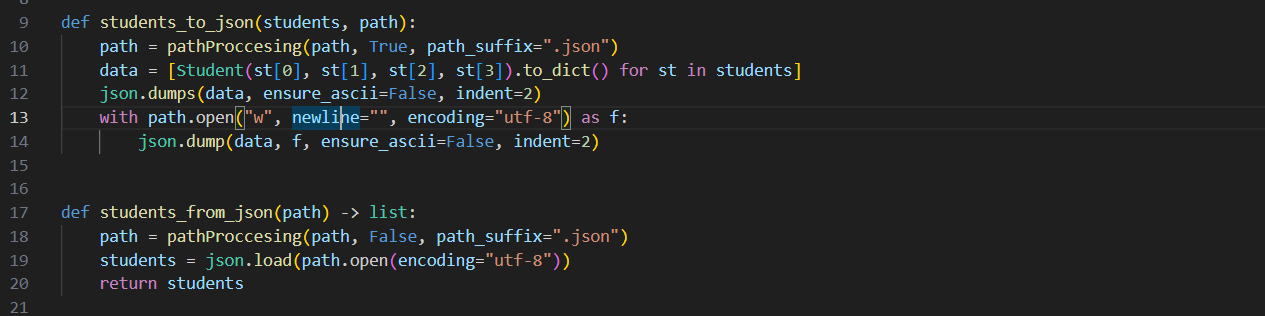
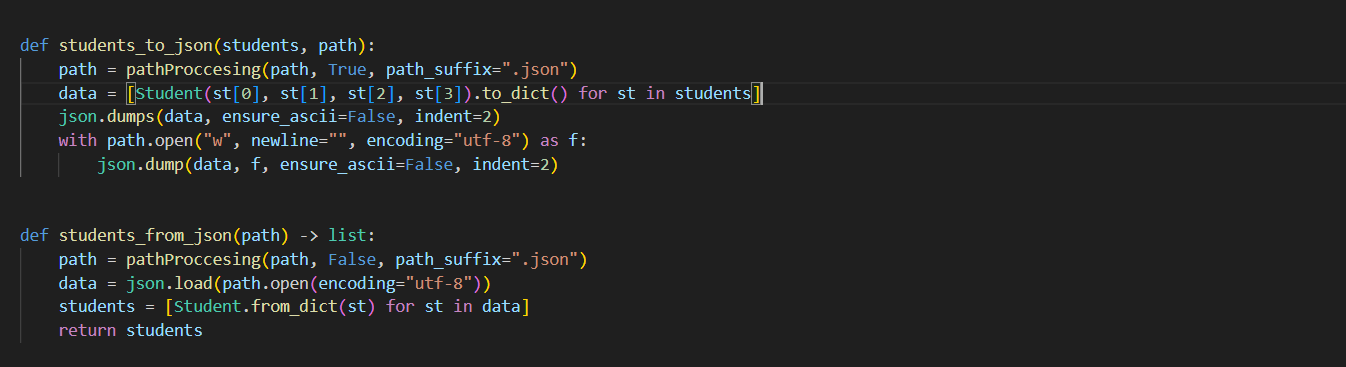
lab07: finish, lab08: finish

diff --git a/src/lab08/models.py b/src/lab08/models.py
@@ -27,10 +27,9 @@ class Student:
 
     def to_dict(self) -> dict:
         all_data = [self.fio, self.birthdate, self.group, self.gpa]
-        if (
-            sum(type(i) == str and i != "" for i in all_data) == 3
-            and type(all_data[3]) in [float, int]
-        ):
+        if sum(type(i) == str and i != "" for i in all_data) == 3 and type(
+            all_data[3]
+        ) in [float, int]:
             return {
                 "fio": self.fio,
                 "birthdate": self.birthdate,

diff --git a/src/lib/classes/model_student.py b/src/lib/classes/model_student.py
@@ -27,10 +27,9 @@ class Student:
 
     def to_dict(self) -> dict:
         all_data = [self.fio, self.birthdate, self.group, self.gpa]
-        if (
-            sum(type(i) == str and i != "" for i in all_data) == 3
-            and type(all_data[3]) in [float, int]
-        ):
+        if sum(type(i) == str and i != "" for i in all_data) == 3 and type(
+            all_data[3]
+        ) in [float, int]:
             return {
                 "fio": self.fio,
                 "birthdate": self.birthdate,

diff --git a/src/lab08/serialize.py b/src/lab08/serialize.py
@@ -16,7 +16,8 @@ def students_to_json(students, path):
 
 def students_from_json(path) -> list:
     path = pathProccesing(path, False, path_suffix=".json")
-    students = json.load(path.open(encoding="utf-8"))
+    data = json.load(path.open(encoding="utf-8"))
+    students = [Student.from_dict(st) for st in data]
     return students
 
 

diff --git a/src/lab08/README.md b/src/lab08/README.md
@@ -1,0 +1,73 @@
+# lab08
+
+## models
+
+### libs
+
+Используемые библиотеки и модули (всё по классике, анологично предыдущим работам, кроме datetime - работа с датами и временем, dataclasses - работа с классами):
+
+![libs](/images/lab08/models/models_lib.png)
+
+### check_date
+
+Модуль проверяющий корректность формата даты, если формат соответствует установленному формату (по умолчанию установленны следующие форматы: yyyy/mm/dd | yyyy.mm.dd | dd/mm/yyyy | dd.mm.yyyy), то возвращает дату, иначе поднимает ошибку ValueError:
+
+![check_date.py](/images/lab08/models/check_date.png)
+
+### class_fields
+
+Объявление полей класса и их типа данных:
+
+![models.py](/images/lab08/models/models_class_fields.png)
+
+### __post_init__()
+
+Сразу запускается проверка корректности формата даты и соответсявия оценки (0 <= gpa <= 5 и gpa: float | int): 
+
+![models.py](/images/lab08/models/models__post_init__.png)
+
+### age()
+
+Метод класса для расёта возраста студента (datetime.today() - всегда актуальная дата, year - позволяет из даты извлечь год):
+
+![models.py](/images/lab08/models/models_age.png)
+
+### to_dict()
+
+Метод класса, который создаёт словарь с ключами (названия полей) и соответсвующими им значениями (значения полей), с их валидацией:
+
+![models.py](/images/lab08/models/models_to_dict.png)
+
+### clasmethod
+
+Методы для работы с целым классом. from_dict() - присваивает значения словаря полям согласно ключам и названиям полей. __str__() - аналогично __post_init__() запускается сразу, выводит значеня полей в "читаемом" виде:
+
+![models.py](/images/lab08/models/models_classmethod.png)
+
+### models_result
+
+Результат работы кода:
+
+![models.py](/images/lab08/models/models_result.png)
+
+## serialize
+
+### libs
+
+Используемые библиотеки и модули (всё по классике, анологично предыдущим работам, кроме model_student - готовая модель класса студента, совершенного аналогично тому, что представлено в models.py, за исключением тестовых данных):
+
+![libs](/images/lab08/serialize/serialize_lib.png)
+
+### students_to_json and students_from_json
+
+Конвертирует список класса Student с разными объектами в список словарей, а затем записывает в файл JSON. Также конвертирует и в обратную сторону:
+
+![serialize.py](/images/lab08/serialize/serialize_json_list.png)
+
+### serialize_result
+
+Результат работы students_from_json ниже, результаты students_to_json расположены data/lab08/out, а также на скриншоте:
+
+![serialize.py](/images/lab08/serialize/serialize_result.png)
+
+![serialize.py](/images/lab08/serialize/serialize_result_to_json.png)

diff --git a/src/lab07/README.md b/src/lab07/README.md
@@ -1,0 +1,101 @@
+# lab07
+
+## test_text
+
+### libs
+
+Используемые библиотеки и модули (всё по классике, анологично предыдущим работам, кроме pytest - данный модуль необходим для разработки тестов и их проведения):
+
+![libs](/images/lab07/test_text/test_text_lib.png)
+
+### test_text_normalize
+
+Тест модуля normalize:
+
+![test_text.py](/images/lab07/test_text/test_text_normalize.png)
+
+### test_text_tokenize
+
+Тест модуля tokenize:
+
+![test_text.py](/images/lab07/test_text/test_text_tokenize.png)
+
+### test_text_count_freq
+
+Тест модуля count_freq:
+
+![test_text.py](/images/lab07/test_text/test_text_count_freq.png)
+
+### test_text_top_n
+
+Тест модуля top_n:
+
+![test_text.py](/images/lab07/test_text/test_text_top_n.png)
+
+### test_text_result
+
+Результат тестирования:
+
+![test_text.py](/images/lab07/test_text/test_text_out.png)
+
+## test_json_csv
+
+### libs
+
+Используемые библиотеки и модули (всё по классике, анологично предыдущим работам, кроме pytest - данный модуль необходим для разработки тестов и их проведения):
+
+![libs](/images/lab07/test_json_csv/test_json_csv_lib.png)
+
+### test_json_to_csv
+
+Тест модуля json_to_csv:
+
+![test_json_csv.py](/images/lab07/test_json_csv/test_json_to_csv.png)
+
+### test_csv_to_json
+
+Тест модуля csv_to_json:
+
+![test_json_csv.py](/images/lab07/test_json_csv/test_csv_to_json.png)
+
+### test_json_csv_out
+
+Результат тестирования:
+
+![test_json_csv.py](/images/lab07/test_json_csv/test_json_csv_out.png)
+
+## test cov
+
+### test cov lab07
+
+Результат покрытия лабароторной работы 7:
+
+![test_lab07](/images/lab07/lab07_cov.png)
+
+### test cov src
+
+Результат покрытия репозитория src:
+
+![test_src](/images/lab07/src_cov_part_1.png)
+
+![test_src](/images/lab07/src_cov_part_2.png)
+
+## black 
+
+### black style
+
+Применение стиля black:
+
+![black](/images/lab07/black_style.png)
+
+### black style check
+
+Проверка того, что стиль black применён к репозиторию:
+
+![black](/images/lab07/black_style_check.png)
+
+## config
+
+Создание конфигурационного файла pyproject.tom, где указаны имя автора, версия проекта, контактные данные, название проекта, а также необходимые библиотеки:
+
+![pyproject.toml](/images/lab07/config_toml.png)

diff --git a/tests/README.md b/tests/README.md
@@ -1,0 +1,9 @@
+# TESTS
+
+## test_text
+
+Тест для проверки работы модулей обработки текста.
+
+## test_json_csv
+
+Тест для проверки работы модулей конвертации JSON <-> CSV.

diff --git a/README.md b/README.md
@@ -8,11 +8,12 @@
 ### lab04
 ### lab05
 ### lab06
+### lab07
+### lab08
 
 ## Незаконченные лабораторные работы:
 
-### lab07
-### lab08
+### ...
 
 ## Неначатые лабораторные работы:
 
